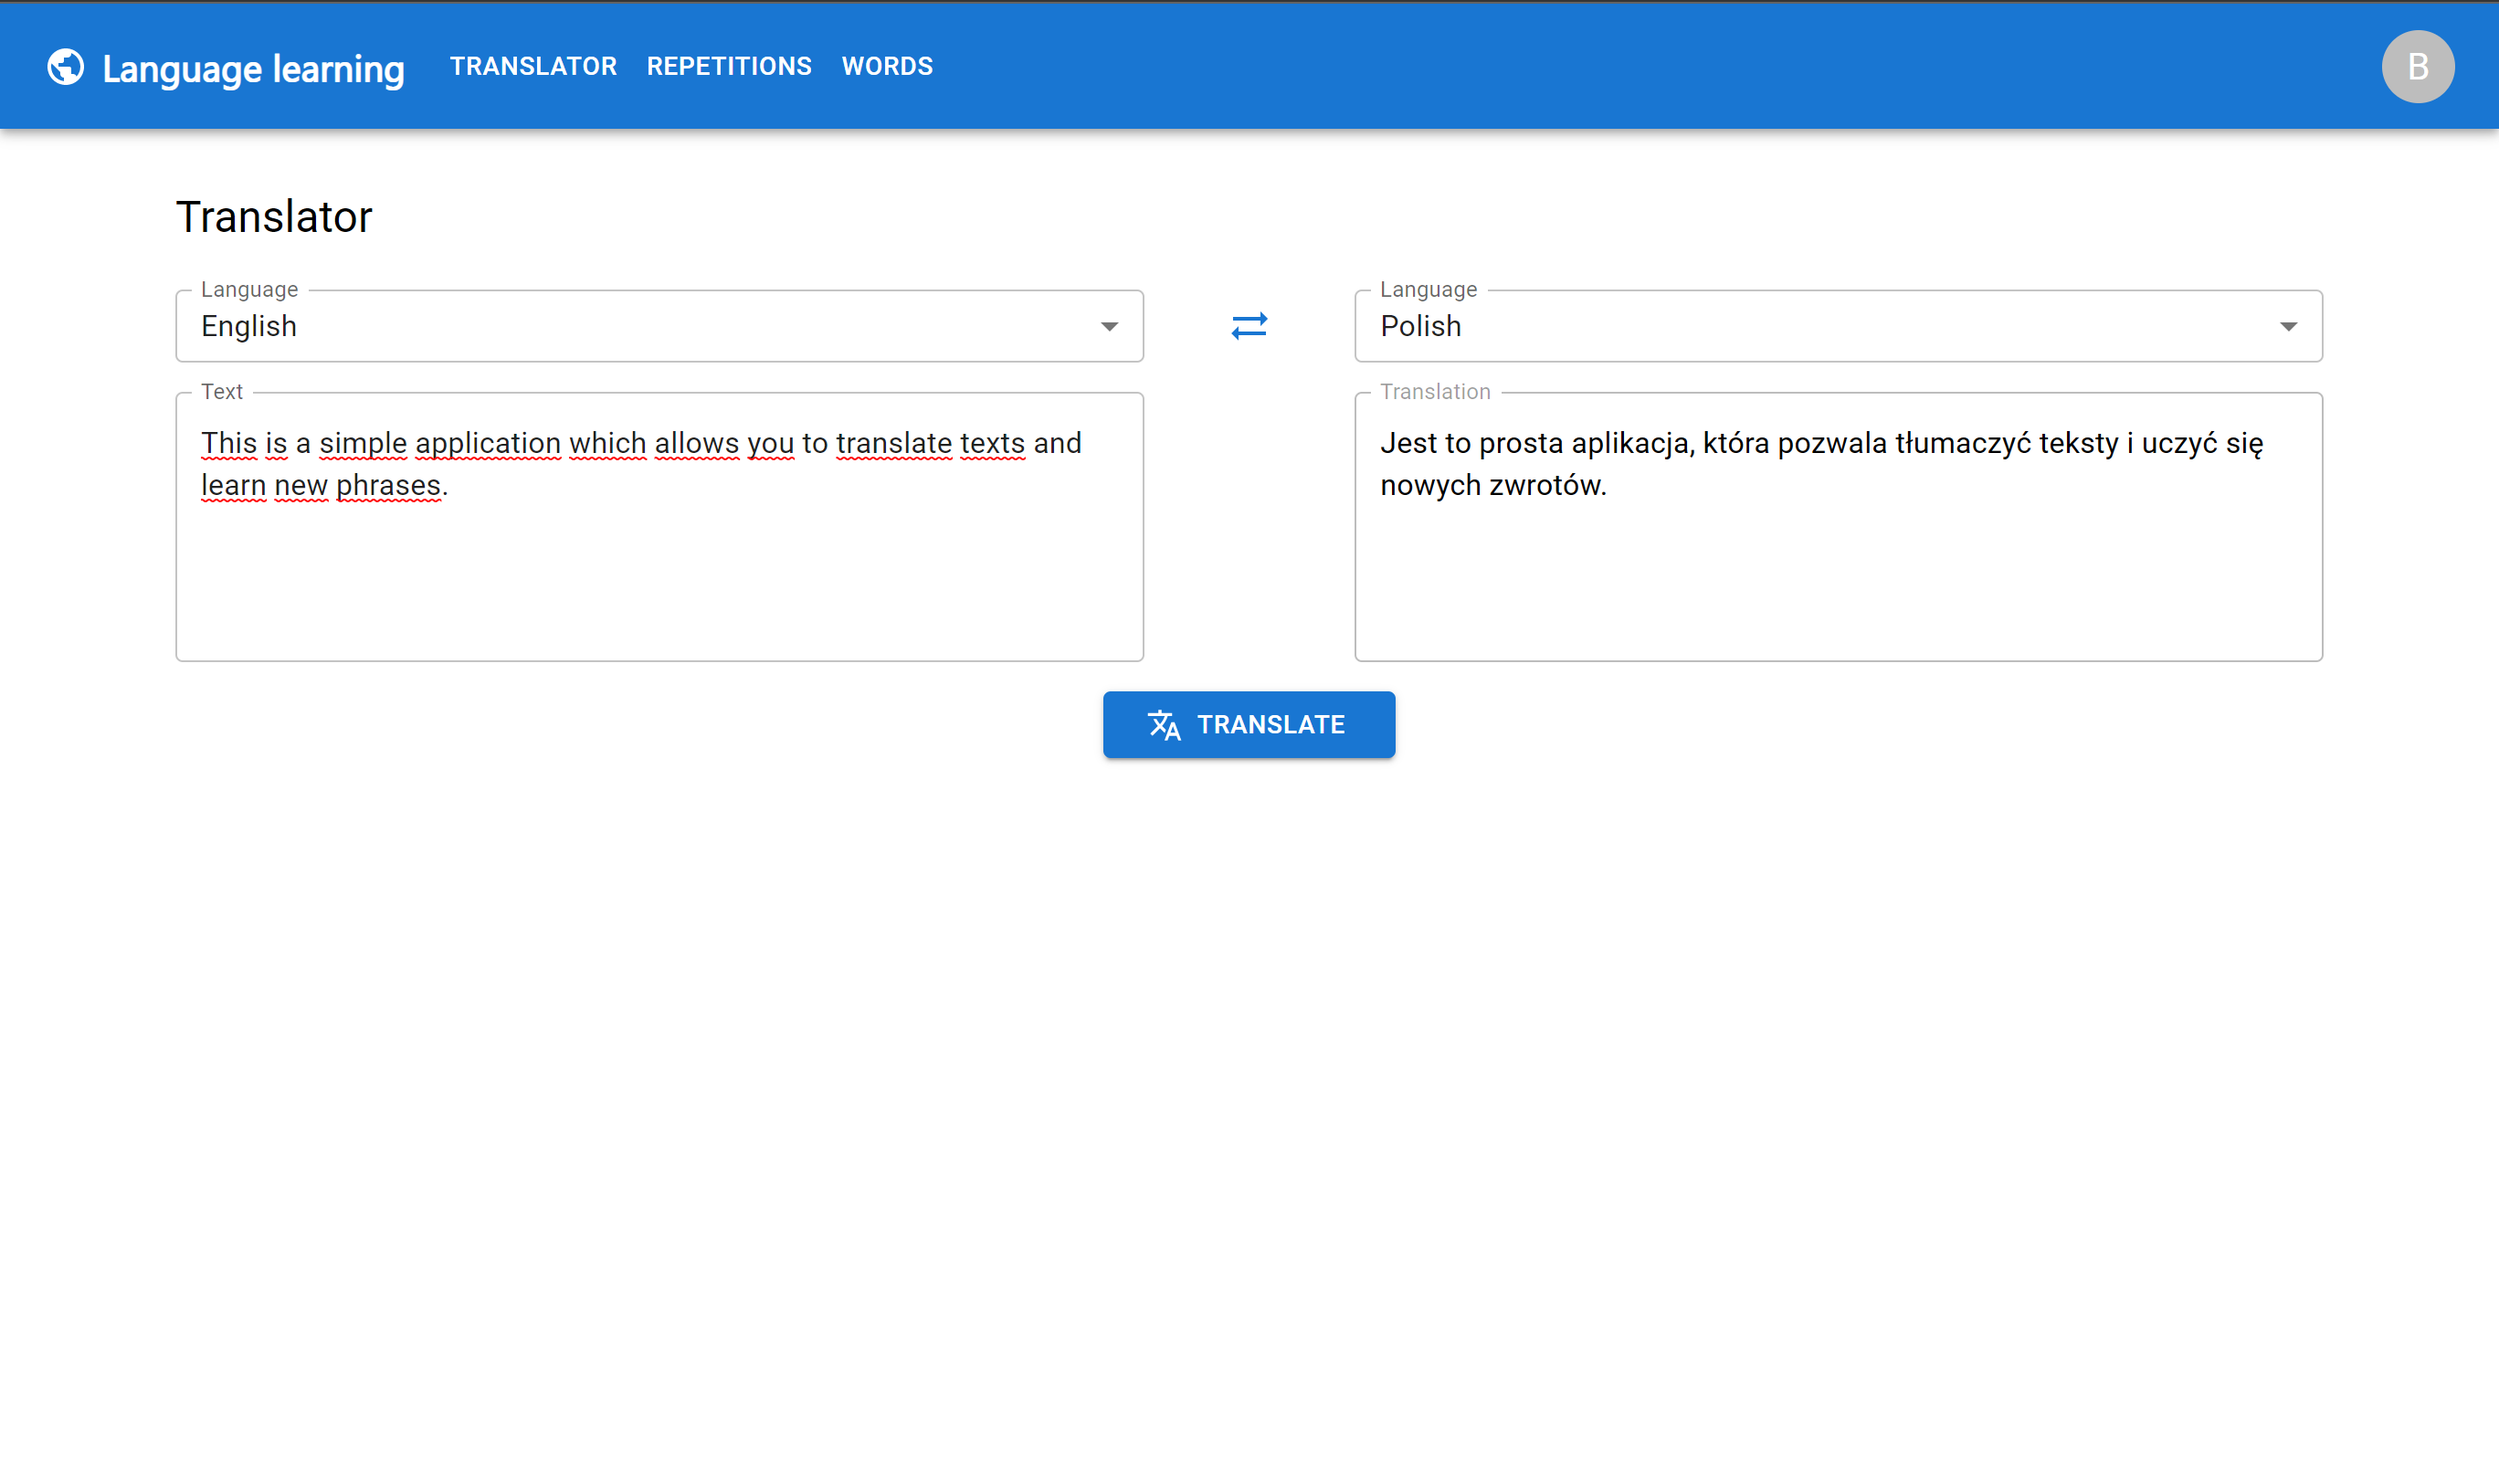
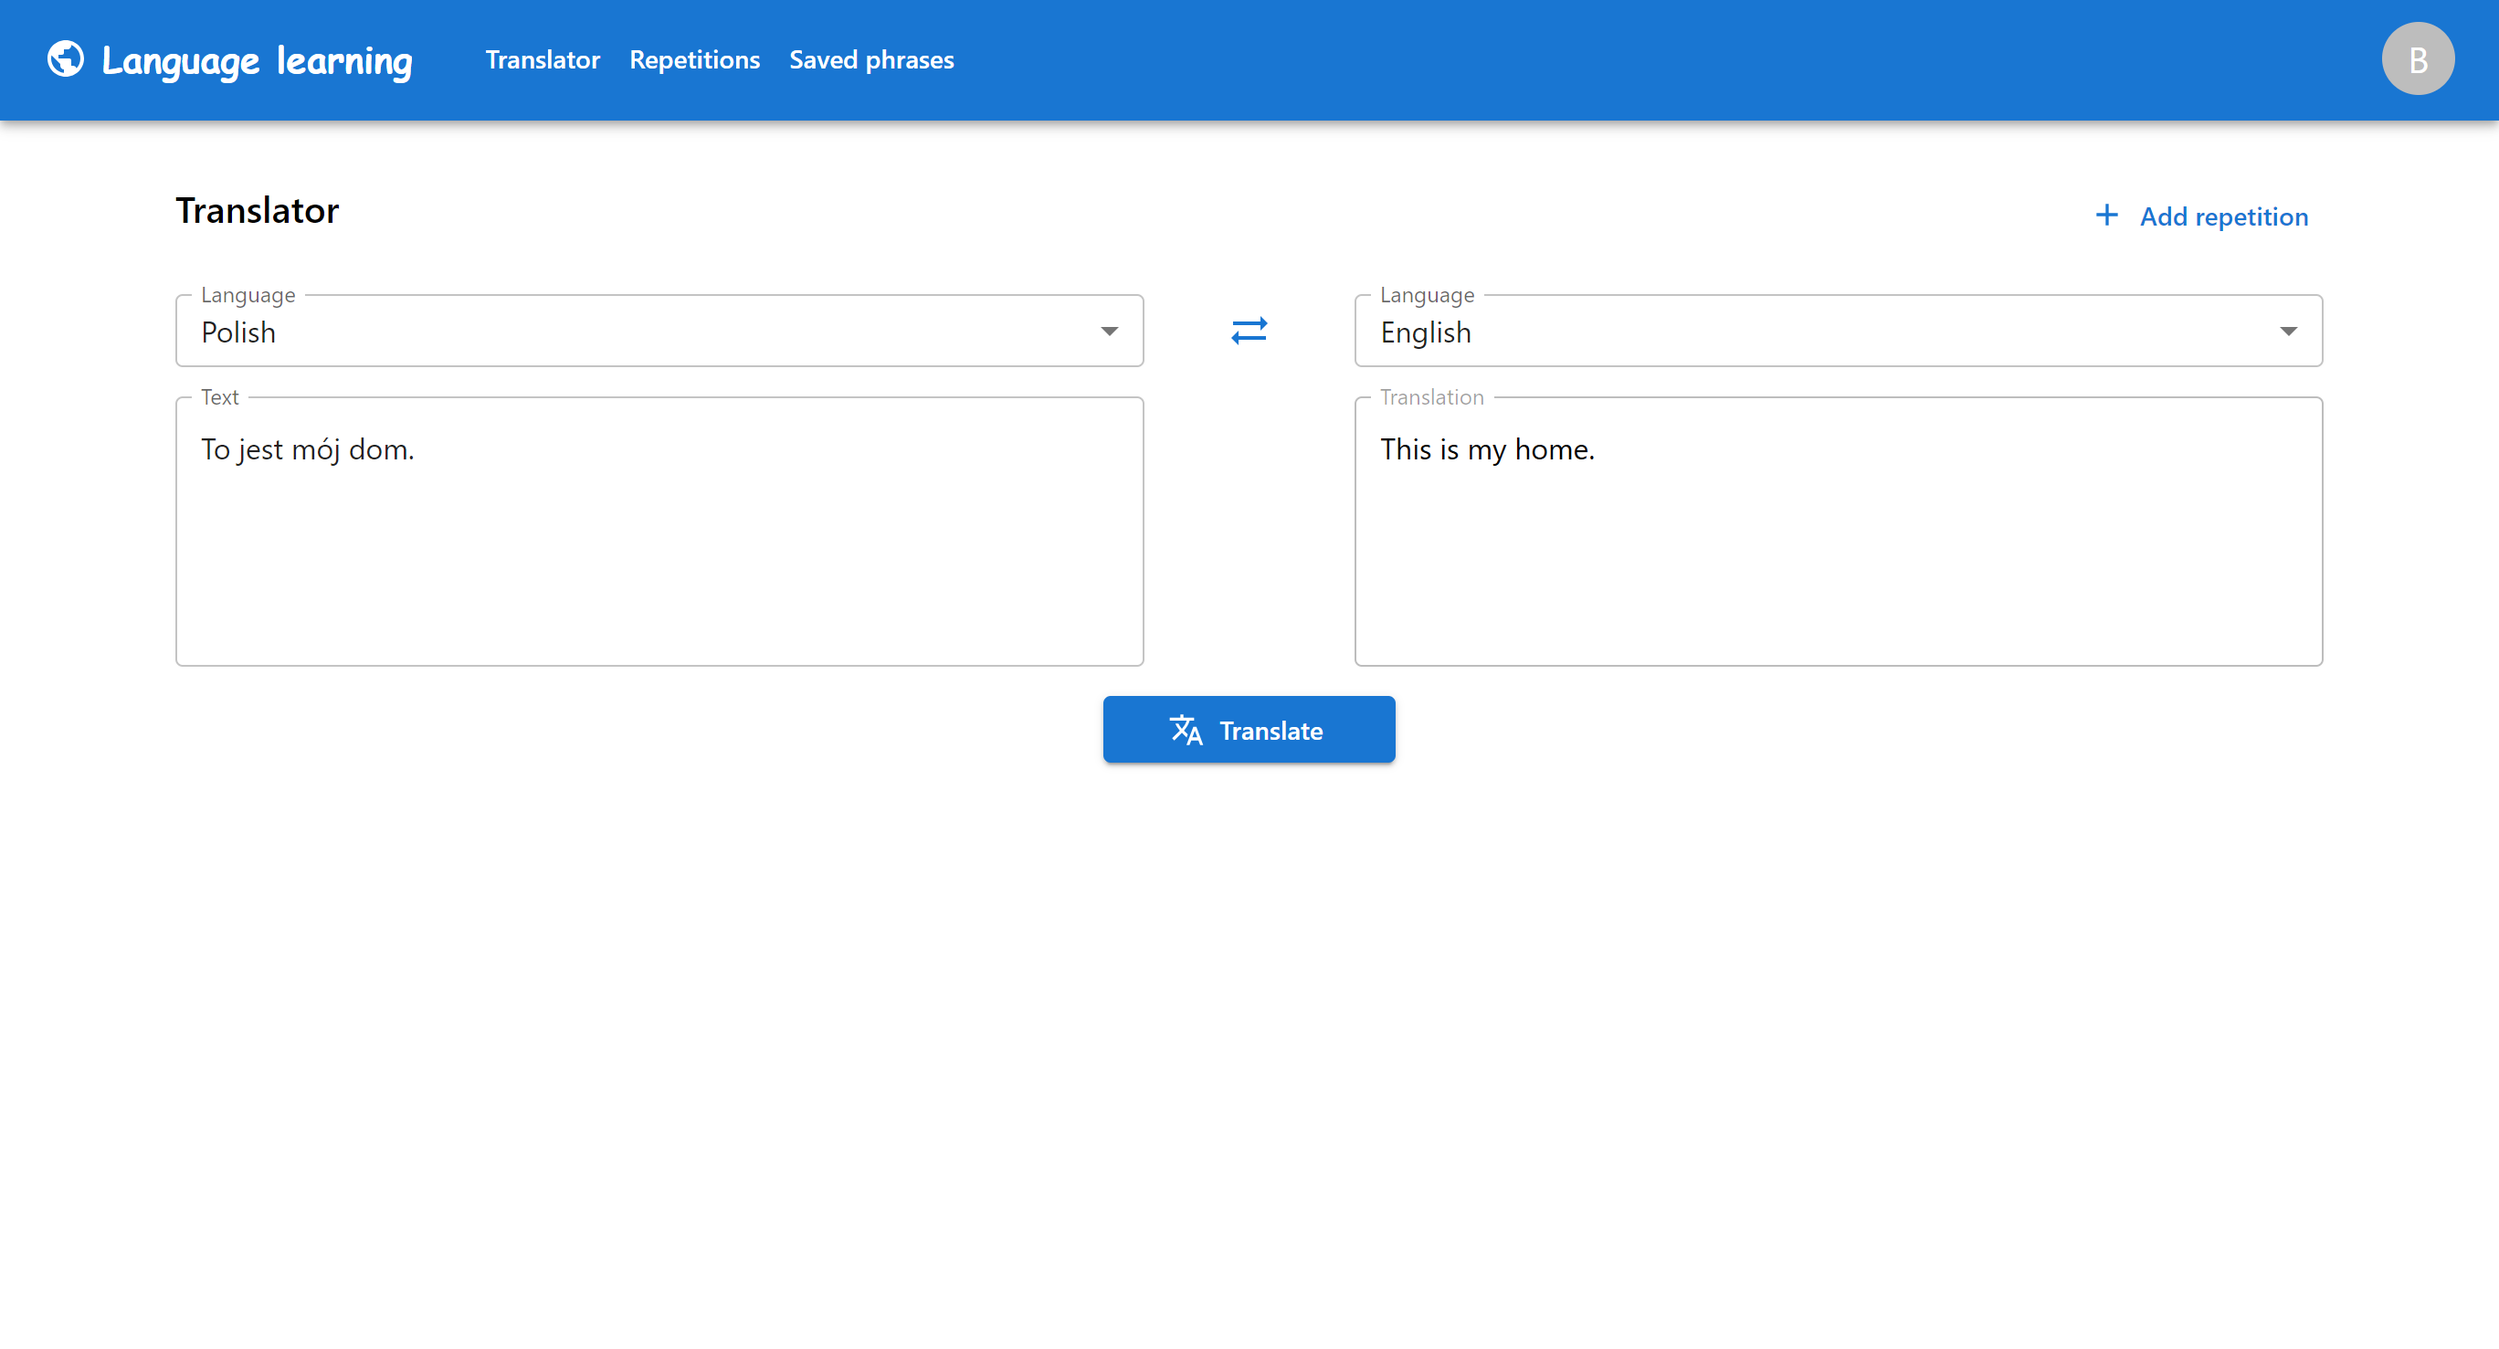
[WEB] Update design of some elements (#43)
* Update design of some elements

* Small changes

diff --git a/web/src/index.tsx b/web/src/index.tsx
@@ -5,6 +5,7 @@ import { QueryClient, QueryClientProvider } from '@tanstack/react-query';
 import { ReactQueryDevtools } from '@tanstack/react-query-devtools';
 import { Amplify } from 'aws-amplify';
 import { ToastContainer } from 'react-toastify';
+import { ThemeProvider } from '@mui/material';
 import 'react-toastify/dist/ReactToastify.css';
 
 import { AccountProvider } from './utils/users/Account';
@@ -14,6 +15,7 @@ import reportWebVitals from './reportWebVitals';
 import './i18next';
 import awsExports from './aws-exports';
 import { isLocalhost } from './helpers/isLocalhost';
+import { theme } from './theme/theme';
 
 Amplify.configure(awsExports);
 
@@ -26,21 +28,23 @@ root.render(
   <HelmetProvider>
     <AccountProvider>
       <QueryClientProvider client={queryClient}>
-        <React.StrictMode>
-          <ToastContainer
-            position="top-center"
-            autoClose={5000}
-            hideProgressBar={false}
-            newestOnTop={false}
-            closeOnClick
-            rtl={false}
-            pauseOnFocusLoss
-            draggable
-            pauseOnHover
-            theme="light"
-          />
-          <App />
-        </React.StrictMode>
+        <ThemeProvider theme={theme}>
+          <React.StrictMode>
+            <ToastContainer
+              position="top-center"
+              autoClose={5000}
+              hideProgressBar={false}
+              newestOnTop={false}
+              closeOnClick
+              rtl={false}
+              pauseOnFocusLoss
+              draggable
+              pauseOnHover
+              theme="light"
+            />
+            <App />
+          </React.StrictMode>
+        </ThemeProvider>
         {isLocalhost() && <ReactQueryDevtools />}
       </QueryClientProvider>
     </AccountProvider>

diff --git a/web/src/pages/LogIn/index.tsx b/web/src/pages/LogIn/index.tsx
@@ -2,12 +2,12 @@ import React, { memo, useState, useContext } from 'react';
 import { useTranslation } from 'react-i18next';
 import { Alert, TextField, Typography } from '@mui/material';
 import { Helmet } from 'react-helmet-async';
-import { LoadingButton } from '@mui/lab';
 import { useNavigate } from 'react-router-dom';
 
 import { LoginForm, Wrapper } from './styled';
 import { PasswordTextField } from '../../components/PasswordTextField';
 import { AccountContext } from '../../utils/users/Account';
+import { Button } from '../../components/Button/styled';
 
 export const LogIn = memo((): JSX.Element => {
   const { t } = useTranslation('translation', { keyPrefix: 'pages.logIn' });
@@ -62,9 +62,9 @@ export const LogIn = memo((): JSX.Element => {
             value={password}
           />
           {error !== '' && <Alert severity="error">{error}</Alert>}
-          <LoadingButton variant="contained" loading={loading} loadingPosition="start" type="submit">
+          <Button variant="contained" loading={loading} loadingPosition="start" type="submit">
             {t('logInButton')}
-          </LoadingButton>
+          </Button>
         </LoginForm>
       </Wrapper>
     </>

diff --git a/web/src/components/AppBar/index.tsx b/web/src/components/AppBar/index.tsx
@@ -59,10 +59,11 @@ const ResponsiveAppBar = (): JSX.Element => {
             sx={{
               mr: 2,
               display: { xs: 'none', md: 'flex' },
-              fontFamily: '"Segoe UI Symbol"',
+              fontFamily: 'cursive',
               fontWeight: 700,
               color: 'inherit',
               textDecoration: 'none',
+              marginRight: '2rem',
             }}
           >
             {t('title')}
@@ -136,7 +137,7 @@ const ResponsiveAppBar = (): JSX.Element => {
               mr: 2,
               display: { xs: 'flex', md: 'none' },
               flexGrow: 1,
-              fontFamily: '"Segoe UI Symbol"',
+              fontFamily: 'cursive',
               fontWeight: 700,
               color: 'inherit',
               textDecoration: 'none',

diff --git a/web/src/pages/LogIn/styled.ts b/web/src/pages/LogIn/styled.ts
@@ -13,20 +13,31 @@ export const LoginForm = styled.form`
   border: 0.1rem solid #42a5f5;
   border-radius: 1rem;
 
-  width: 50%;
+  width: 40%;
   max-width: 30rem;
-  padding: 5rem;
+  padding: 3rem 5rem 3rem 5rem;
+
+  && > * {
+    margin-left: auto;
+    margin-right: auto;
+  }
 
   .MuiTypography-root {
-    margin-bottom: 1rem;
+    margin-bottom: 2rem;
+    text-align: center;
   }
 
   .MuiFormControl-root {
-    width: 100%;
-    margin: 0 0 1rem 0;
+    width: 80%;
+    margin-top: 0rem;
+    margin-bottom: 1rem;
   }
 
   .MuiPaper-root {
     margin-bottom: 1rem;
+  }
+
+  .MuiLoadingButton-root {
+    margin-top: 1rem;
   }
 `;

diff --git a/web/src/components/Button/styled.ts b/web/src/components/Button/styled.ts
@@ -1,0 +1,22 @@
+import styled from 'styled-components';
+import { LoadingButton } from '@mui/lab';
+
+const getFontSize = (size?: 'small' | 'medium' | 'large'): string => {
+  switch (size) {
+    case 'small':
+      return '1rem';
+    case 'large':
+      return '1.6rem';
+    case 'medium':
+    default:
+      return '1.2rem';
+  }
+};
+
+export const Button = styled(LoadingButton)`
+  && {
+    font-size: ${props => getFontSize(props.size)};
+  }
+
+  width: 10rem;
+`;

diff --git a/web/src/theme/theme.ts b/web/src/theme/theme.ts
@@ -1,0 +1,21 @@
+import { createTheme } from '@mui/material';
+
+const theme = createTheme({
+  typography: {
+    fontFamily: [
+      '"Segoe UI"',
+      'Arial',
+      'Roboto',
+      '"Helvetica Neue"',
+      'sans-serif',
+      '"Apple Color Emoji"',
+      '"Segoe UI Emoji"',
+      '"Segoe UI Symbol"',
+    ].join(','),
+    button: {
+      textTransform: 'none',
+    },
+  },
+});
+
+export { theme };

diff --git a/web/src/pages/Translator/index.tsx b/web/src/pages/Translator/index.tsx
@@ -89,7 +89,7 @@ export const Translator = (): JSX.Element => {
       </Helmet>
       <TranslatorPageWrapper>
         <Stack direction="row" justifyContent="space-between" alignItems="center" spacing={2}>
-          <Typography variant="h5" gutterBottom>
+          <Typography variant="h6" gutterBottom>
             {t('translator')}
           </Typography>
           <Button

diff --git a/web/src/pages/Phrases/index.tsx b/web/src/pages/Phrases/index.tsx
@@ -25,7 +25,7 @@ export const Phrases = (): JSX.Element => {
 
   const getLoadedPage = (): JSX.Element => (
     <>
-      <Typography variant="h5" gutterBottom>
+      <Typography variant="h6" style={{ marginBottom: '2rem' }} gutterBottom>
         {t('savedPhrases')}
       </Typography>
       <PhrasesTable repetitions={getRepetitionsQuery.data} />

diff --git a/README.md b/README.md
@@ -2,8 +2,8 @@
 This is an application which allows users for translating texts and learning words or phrases through repetition system.
 
 ## Screenshots
-<img src="./web/img/1.png" width="400"> <img src="./web/img/5.png" width="400"> <img src="./web/img/6.png" width="400"> <img src="./web/img/7.png" width="160">
-<img src="./web/img/8.png" width="400">
+<img src="./web/img/1.png" width="400"> <img src="./web/img/2.png" width="400"> <img src="./web/img/3.png" width="400">
+<img src="./web/img/8.png" width="400"> <img src="./web/img/9.png" width="400"> <img src="./web/img/10.png" width="400">
 
 ## Technologies
 * AWS (Cognito, CloudFront, S3, Lambda, VPC, Translate, RDS)
@@ -21,14 +21,10 @@ This is an application which allows users for translating texts and learning wor
 * Translator
 * Adding words/phrases to repetitions
 * Learning through repetition system
-* CRUD operations on repetitions (backend)
 * Calculations of a next repetition date for a repetition result
 * List of saved repetitions
+* Modifying repetitions
 * Deleting repetitions
-
-To do in web application:
-* Modifying repetitions on web
-* Sign up
 
 ## Endpoints
 You can find endpoints descriptions [here](/api/README.md)

diff --git a/web/README.md b/web/README.md
@@ -8,11 +8,8 @@ Existing features:
 * Adding word/phrases to repetitions
 * Learning through repetition system
 * List of saved repetitions
-* Deleting repetitions
-
-To do:
 * Modifying repetitions
-* Sign up
+* Deleting repetitions
 
 ## Screenshots
 <img src="./img/1.png" width="400"> <img src="./img/5.png" width="400"> <img src="./img/6.png" width="400"> <img src="./img/7.png" width="160"> <img src="./img/8.png" width="400">
